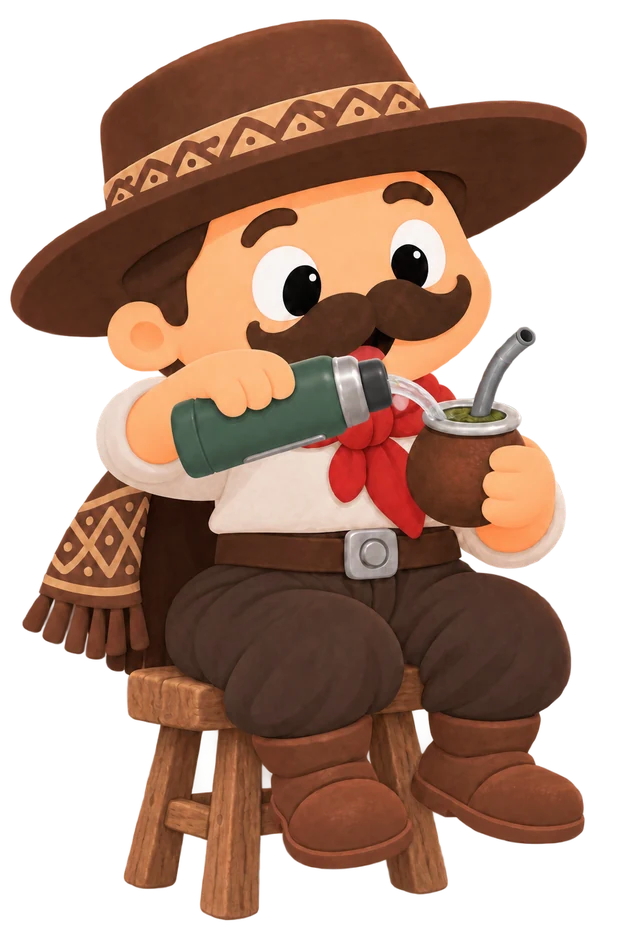
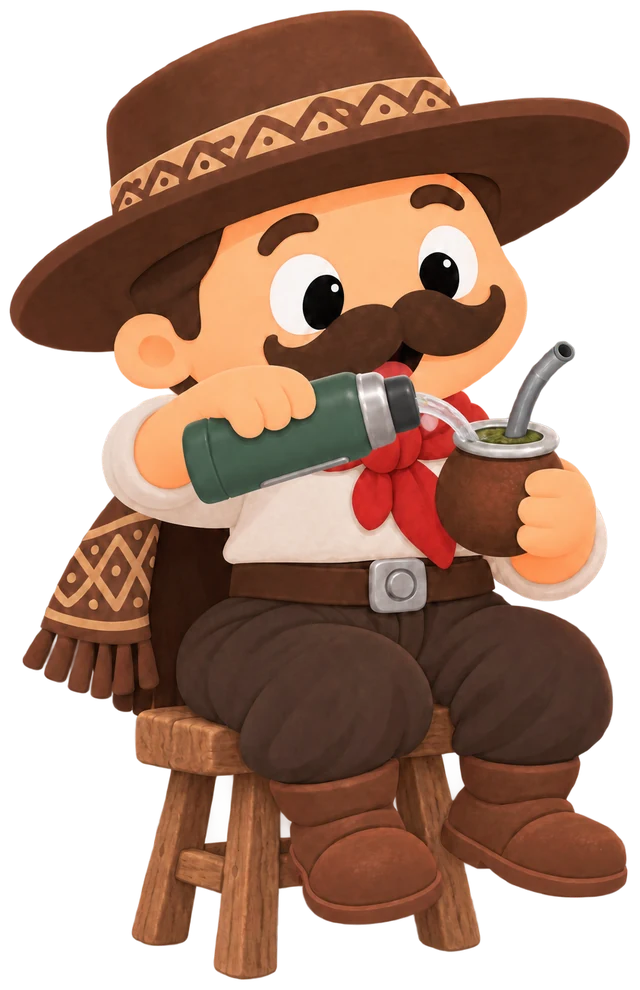
Use the redone A5 in the mate scene
The owner's new "te mira" frame is clean, so the plano general frames
share a tighter crop (640×990): the scene box, its width and the steam
points follow it.

diff --git a/app/src/screens/Onboarding.tsx b/app/src/screens/Onboarding.tsx
@@ -18,13 +18,13 @@ type Step = 'scene' | TalkStep | 'quiz' | 'generating' | 'plan' | 'day1' | 'stre
  * After pouring he goes back to A1: A2·3 says the same but has a smoky halo baked in.
  */
 const SCENE: { pose: string; ms: number; steam?: [number, number] }[] = [
-  { pose: 'a1_base', ms: 1100, steam: [73.6, 43.6] },
+  { pose: 'a1_base', ms: 1100, steam: [79, 43.7] },
   { pose: 'a2_cebando_1', ms: 450 },
   { pose: 'a2_cebando_2', ms: 1300 },
-  { pose: 'a1_base', ms: 500, steam: [73.6, 43.6] },
+  { pose: 'a1_base', ms: 500, steam: [79, 43.7] },
   { pose: 'a3_sorbo', ms: 1300 },
-  { pose: 'a4_ahh', ms: 1100, steam: [72.7, 45.2] },
-  { pose: 'a5_te_mira', ms: 1400, steam: [73.1, 43.6] },
+  { pose: 'a4_ahh', ms: 1100, steam: [78, 45.3] },
+  { pose: 'a5_te_mira', ms: 1400, steam: [79, 43.7] },
 ]
 const SCENE_POSES = [...new Set(SCENE.map((f) => f.pose))]
 

diff --git a/app/src/index.css b/app/src/index.css
@@ -1748,8 +1748,8 @@ img {
   position: absolute;
   left: 50%;
   bottom: 7%;
-  width: min(78%, 360px);
-  aspect-ratio: 640 / 944;
+  width: min(72.5%, 335px);
+  aspect-ratio: 640 / 990;
   translate: -50% 0;
   animation: breathe-guy 2.6s ease-in-out infinite;
   transform-origin: 50% 100%;

diff --git a/CLAUDE.md b/CLAUDE.md
@@ -78,9 +78,9 @@ and the `guachito_assets/` folder. Everything people read says Gauchito.
   1024×1536 (cebando, sorbo, "ahh", te mira), B = plano medio 1254×1254 with
   `_cerrada`/`_abierta` (+ `_parpadeo` for b2/b3); variants are pixel-aligned.
   `design/tools/import_mate_scene.py` cleans the halos of A2·1, A3, A4. A2·3 keeps a
-  smoky halo, so the scene plays A1 in its place. A5 (te mira) has an opaque halo and is
-  being redone by the owner: re-run the script when it arrives and re-check the `steam`
-  point in `SCENE`.
+  smoky halo, so the scene plays A1 in its place. A5 (te mira) was redone clean on
+  2026-10-08; if any A pose changes, the shared crop can change too: re-check the
+  `steam` points in `SCENE` and the `.mi-scene__guy` aspect ratio.
 
 ## Art
 
